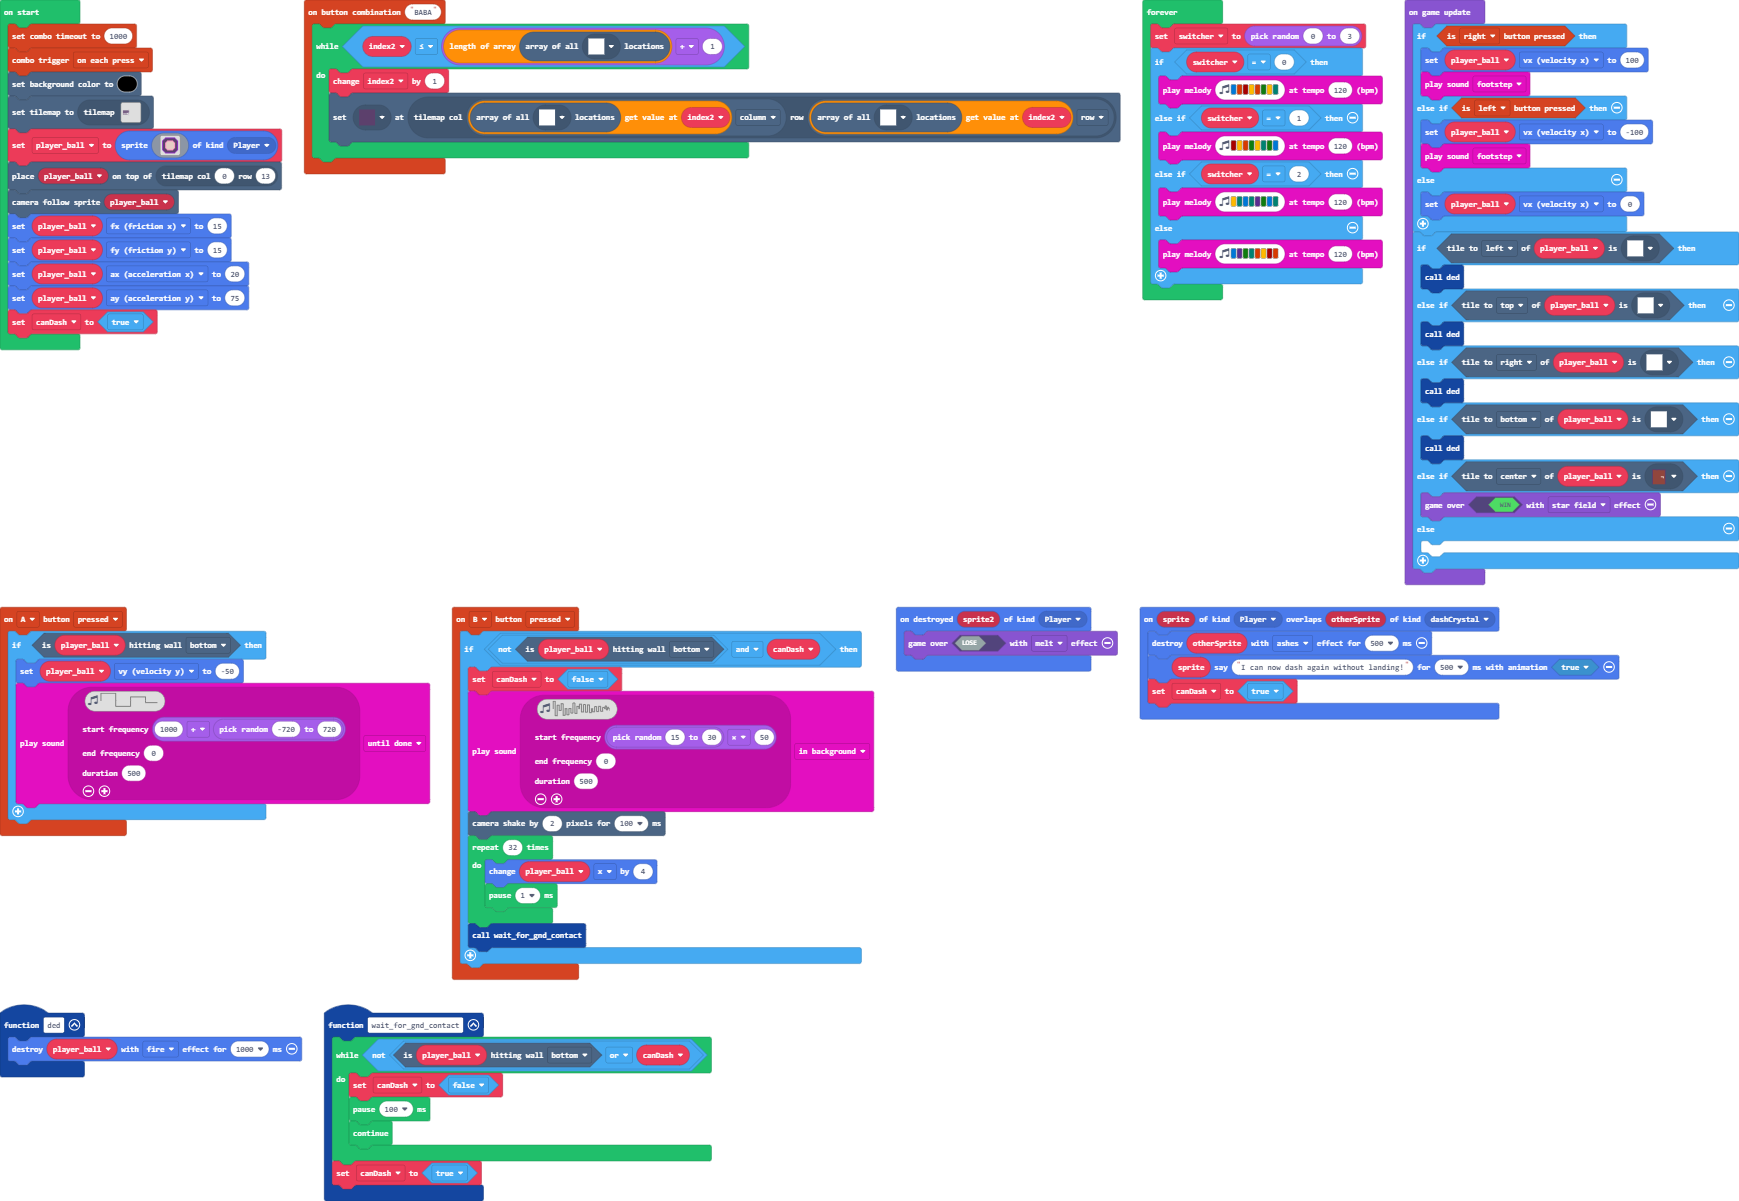
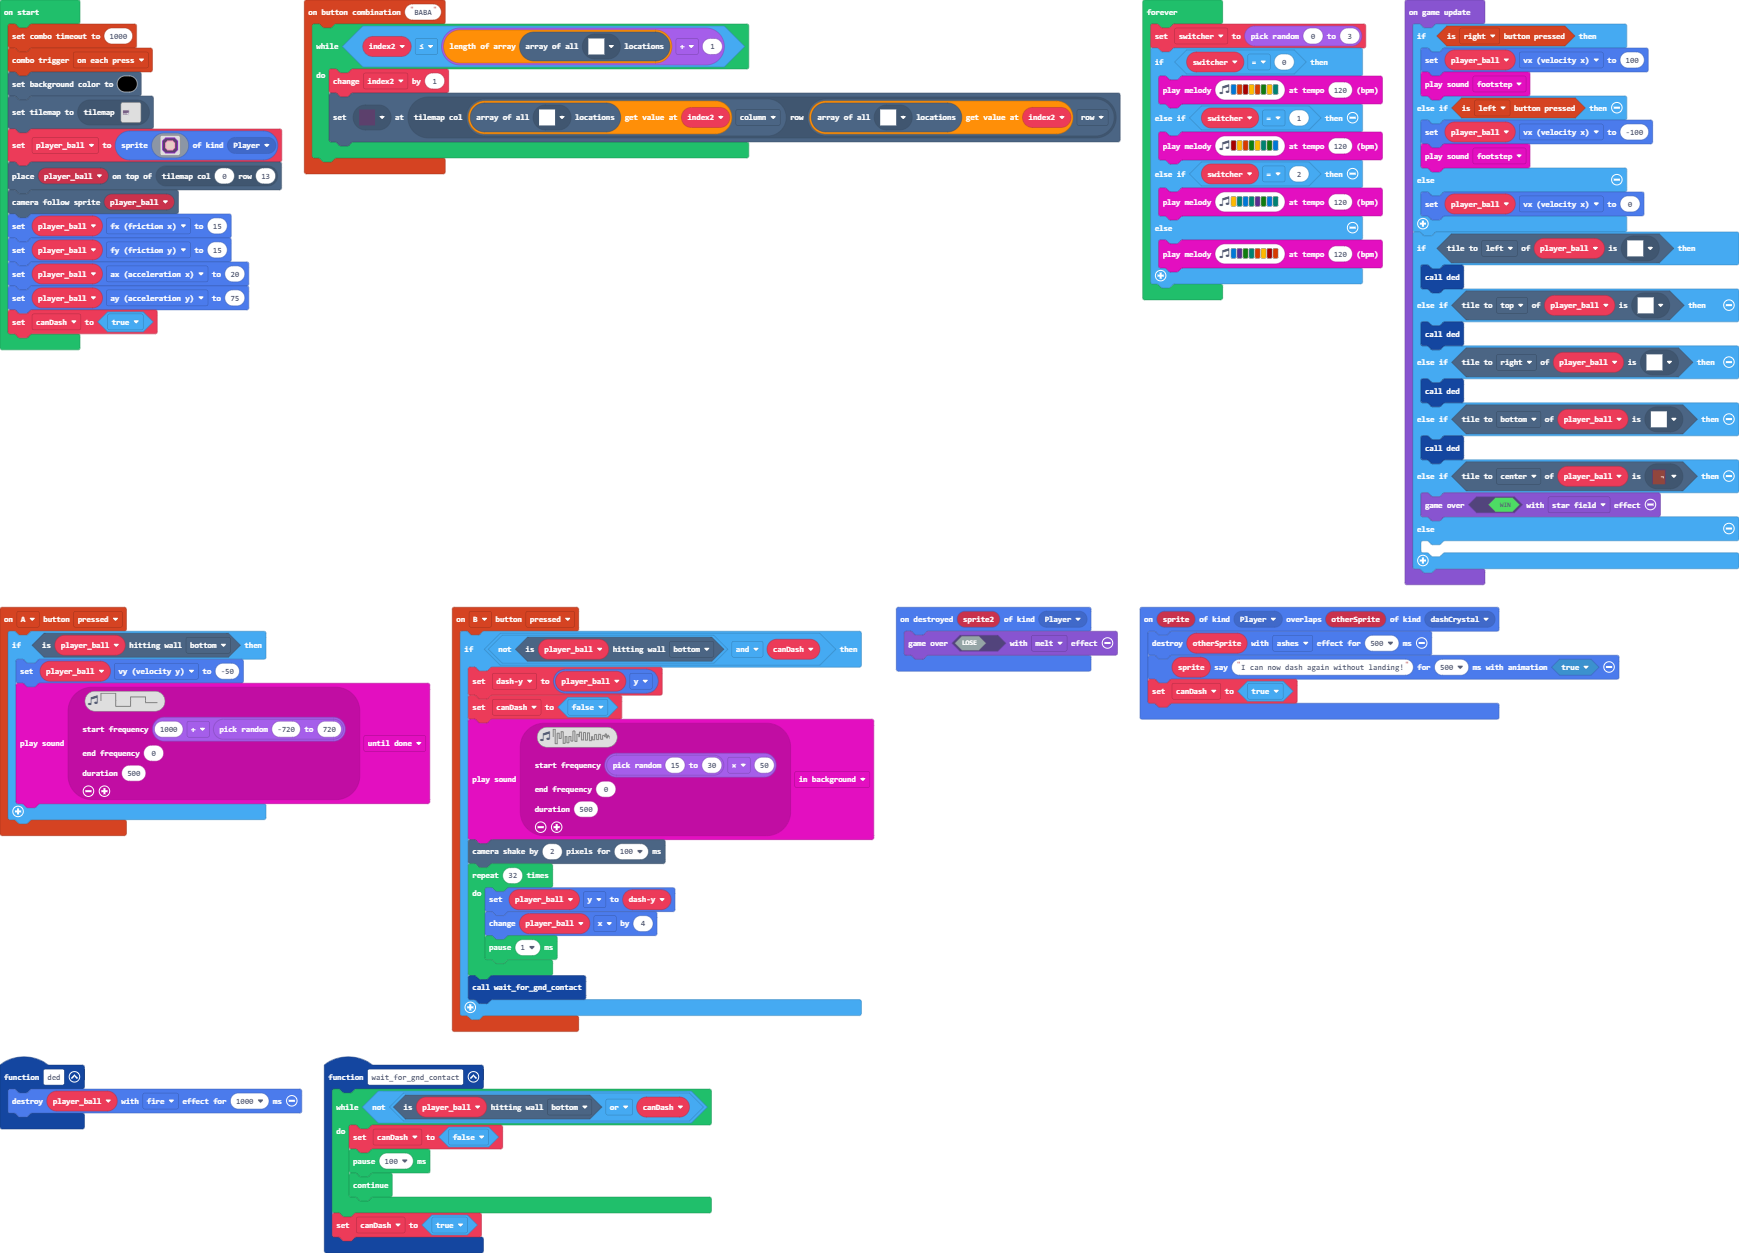
Made player Y pos constant during dashes

Changed region(s): [[0.0, 0.0, 1.0, 0.9858]]

diff --git a/main.ts b/main.ts
@@ -3,6 +3,7 @@ namespace SpriteKind {
 }
 controller.B.onEvent(ControllerButtonEvent.Pressed, function () {
     if (!(player_ball.isHittingTile(CollisionDirection.Bottom)) && canDash) {
+        dashy = player_ball.y
         canDash = false
         music.playSoundEffect(music.createSoundEffect(
         WaveShape.Noise,
@@ -16,6 +17,7 @@ controller.B.onEvent(ControllerButtonEvent.Pressed, function () {
         ), SoundExpressionPlayMode.InBackground)
         scene.cameraShake(2, 100)
         for (let index = 0; index < 32; index++) {
+            player_ball.y = dashy
             player_ball.x += 4
             pause(1)
         }
@@ -64,6 +66,7 @@ function ded () {
 }
 let switcher = 0
 let index2 = 0
+let dashy = 0
 let canDash = false
 let player_ball: Sprite = null
 controller.combos.setTimeout(1000)
